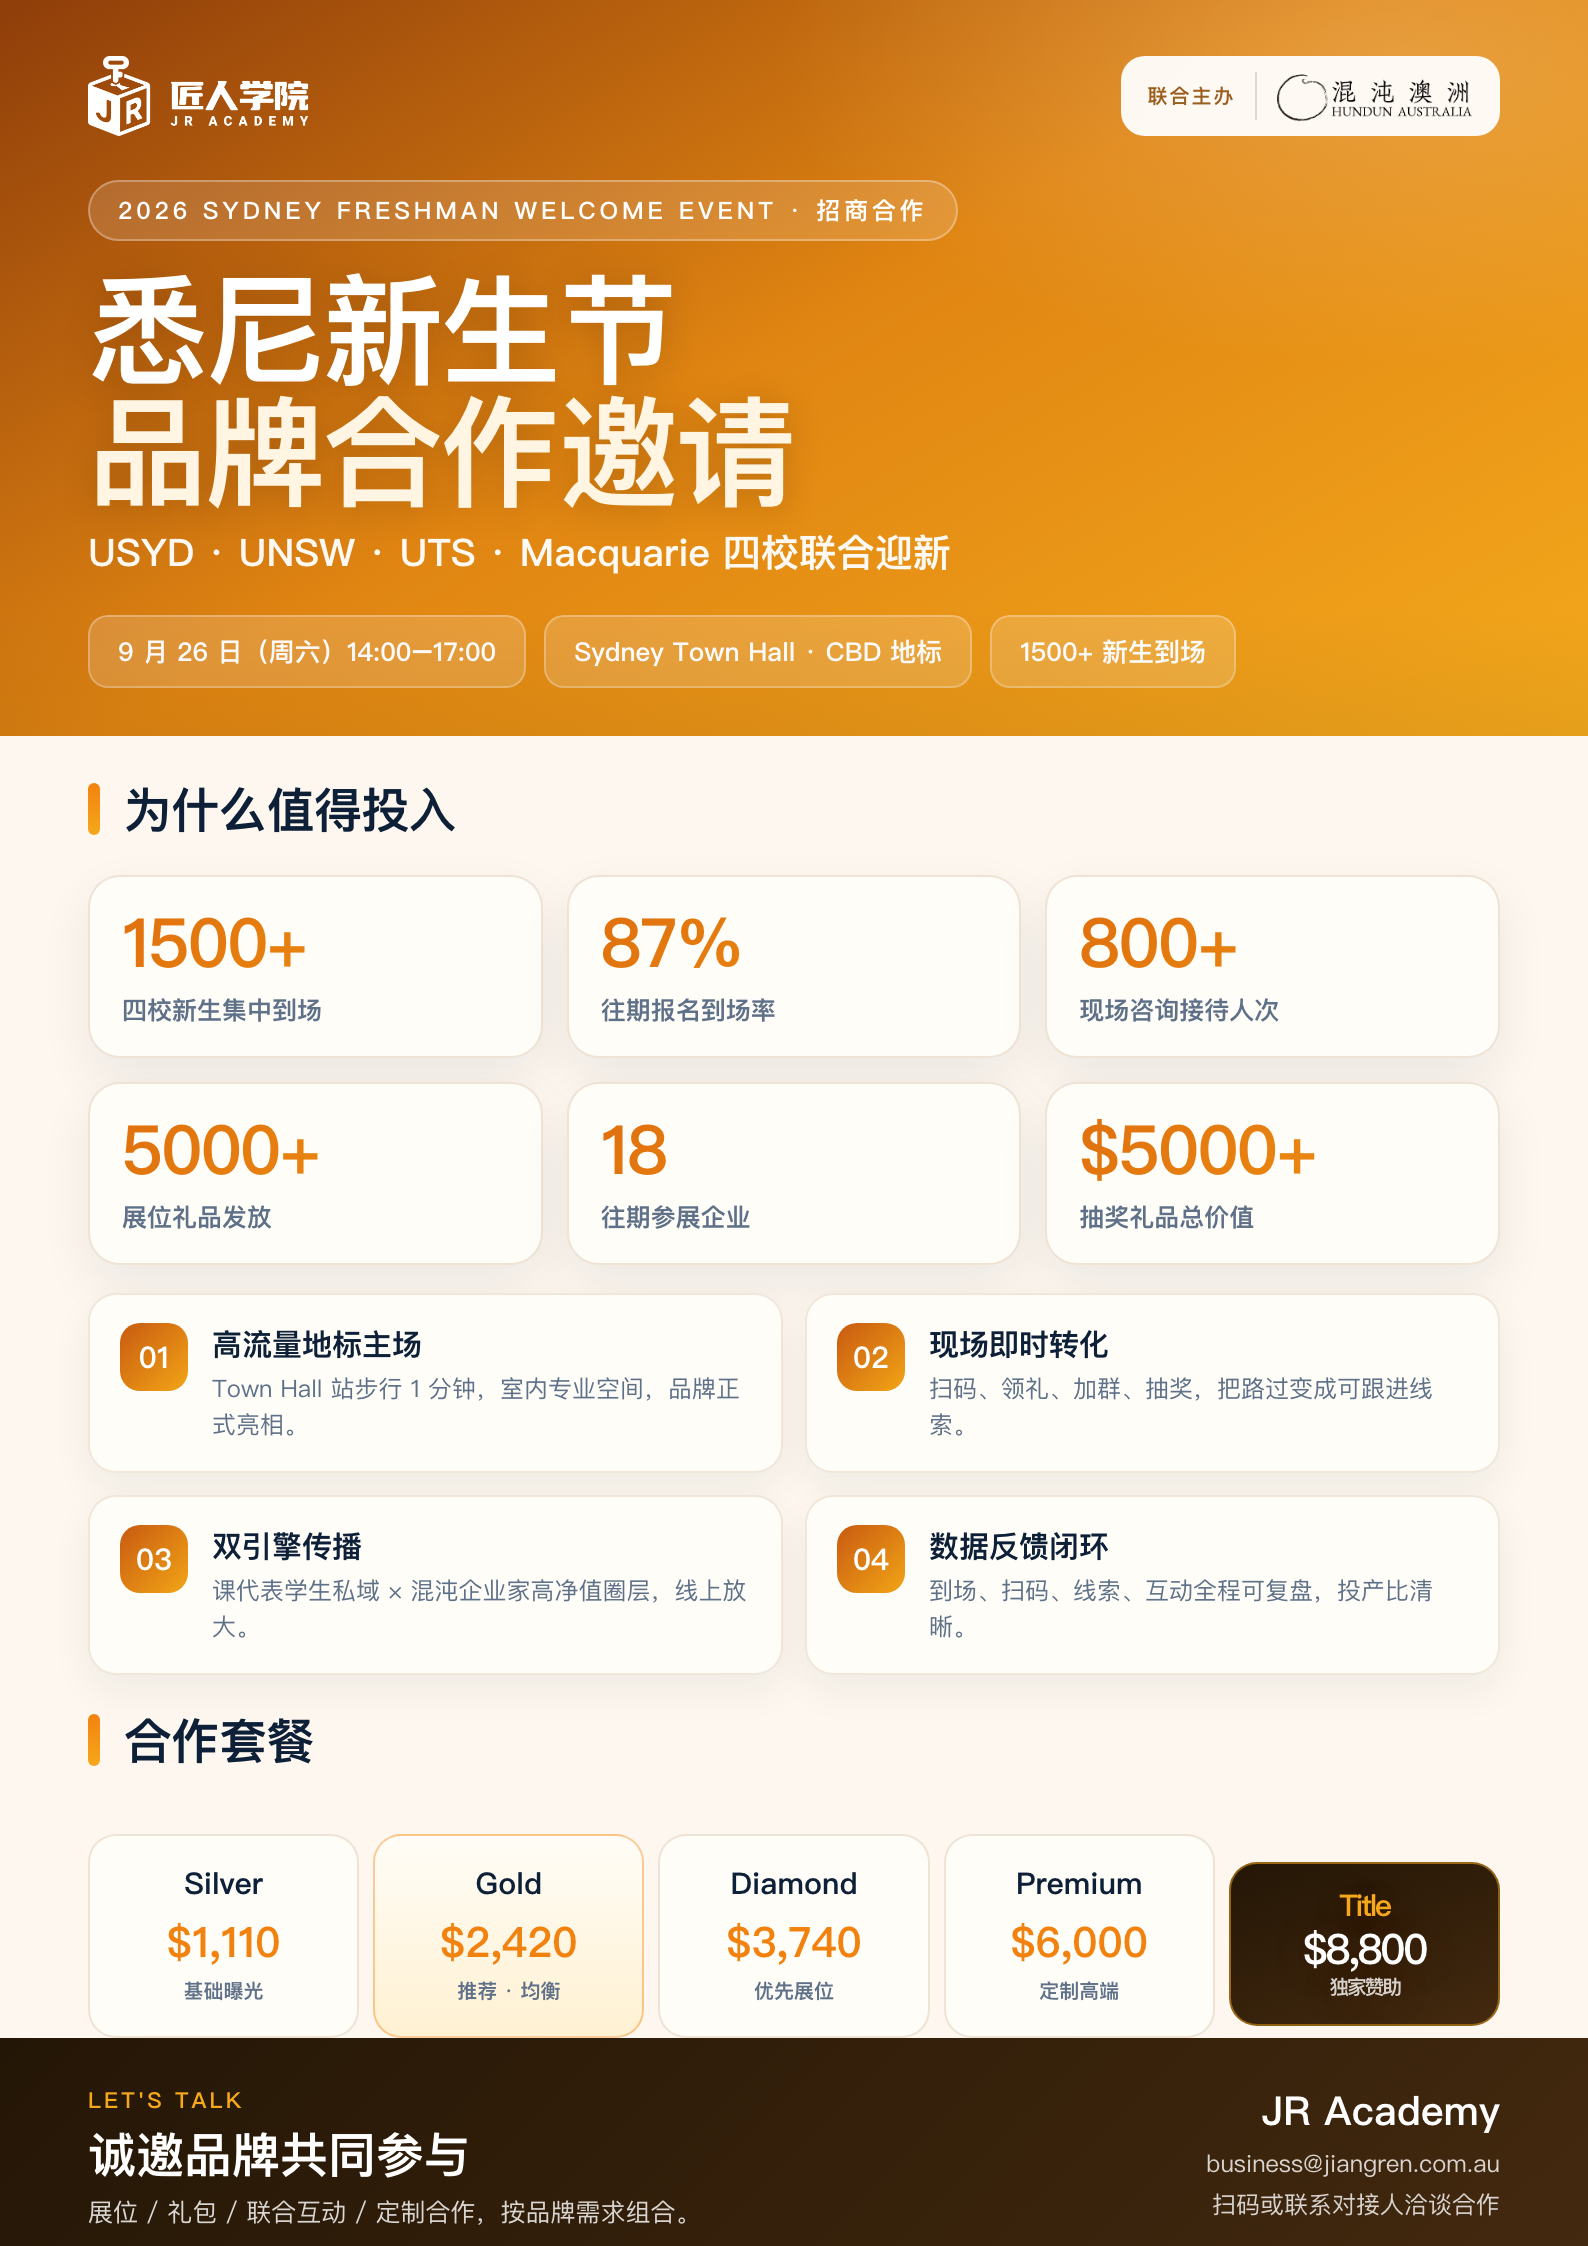
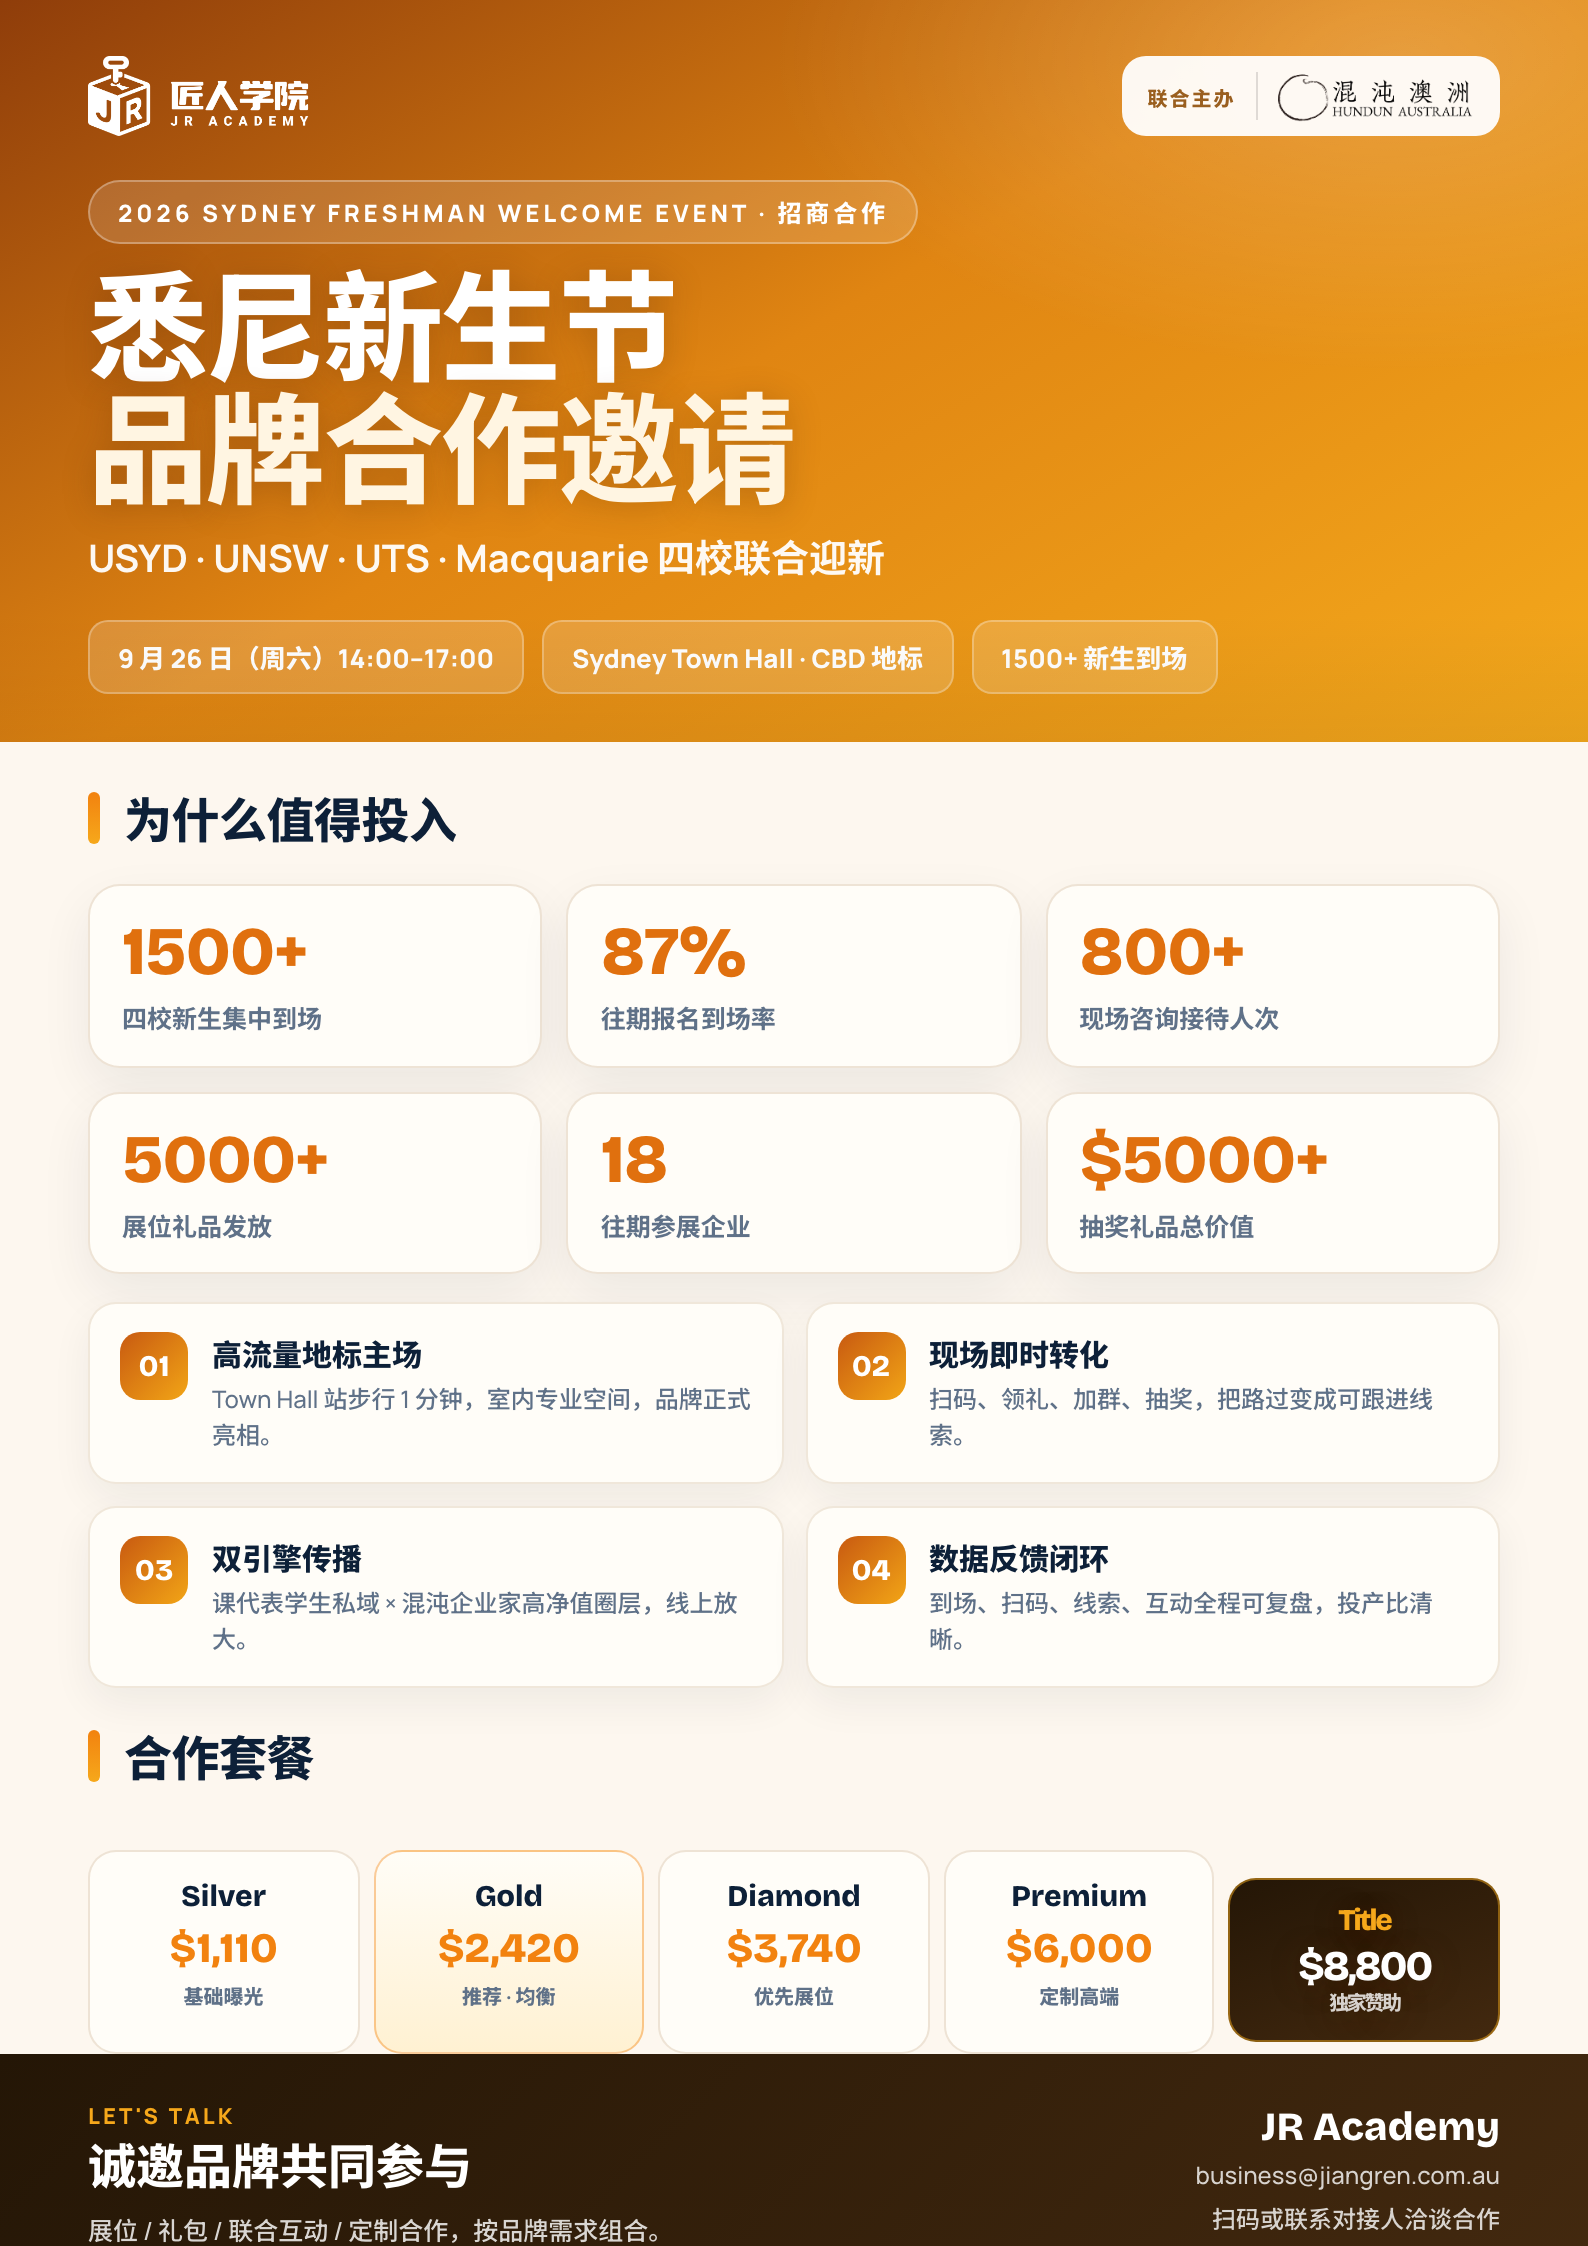
fix: 悉尼招商 deck/海报数字用 CSS 渐变文字在 Mac/iPhone PDF 渲染成空心橙块
.pill-card b / .stat-card strong / .value-card b / .mini-box strong /
.proof-card strong / poster .stat b 用 background-clip:text +
text-fill-color:transparent 做橙金渐变数字，Chromium 打印/PDF 导出管线
不能正确裁切渐变到字形，导致 Mac Preview 和 iPhone 打开 PDF 时数字位置
变成实心橙色矩形（01/02/03/04、1,500+、$5000+ 等全部中招）。
改为纯色 #e0700e，跨渲染器稳定。

重新导出 sydney-2026-s2.pdf / sydney-2026-s2-en.pdf（各 33 页）+
sydney-2026-s2-poster.pdf + poster.png（headless Chrome 打印/截图）。

Claude-Session: https://claude.ai/code/session_01SZh1xh2JWQBrmV9b1fntfv

diff --git a/sydney-2026-s2-en/styles.css b/sydney-2026-s2-en/styles.css
@@ -228,12 +228,12 @@ body.edit .slide.active [data-edit]:focus{outline:2px solid var(--orange)}
 .mini-stats{align-content:stretch}
 .stat-card{padding:22px 22px 18px}
 .stat-card .k{display:block;font-size:11px;letter-spacing:.12em;text-transform:uppercase;color:var(--muted);font-weight:800}
-.stat-card strong{display:block;margin-top:10px;font-family:var(--font-head);font-size:clamp(28px,3vw,44px);line-height:1;letter-spacing:-.02em;white-space:nowrap;background:linear-gradient(135deg,#e0700e,#ef9412);-webkit-background-clip:text;background-clip:text;-webkit-text-fill-color:transparent}
+.stat-card strong{display:block;margin-top:10px;font-family:var(--font-head);font-size:clamp(28px,3vw,44px);line-height:1;letter-spacing:-.02em;white-space:nowrap;color:#e0700e}
 .stat-card p{margin-top:10px;font-size:14px;line-height:1.5;color:var(--muted)}
 .pillars{margin-top:18px}
 .pill-card{padding:24px 20px 22px;position:relative}
 .pill-card::before{content:"";position:absolute;left:0;top:26px;width:4px;height:34px;border-radius:0 4px 4px 0;background:linear-gradient(180deg,var(--orange),var(--gold))}
-.pill-card b{display:block;font-family:var(--font-head);font-size:44px;line-height:.9;letter-spacing:-.02em;background:linear-gradient(135deg,#e0700e,#ef9412);-webkit-background-clip:text;background-clip:text;-webkit-text-fill-color:transparent}
+.pill-card b{display:block;font-family:var(--font-head);font-size:44px;line-height:.9;letter-spacing:-.02em;color:#e0700e}
 .pill-card h3{margin-top:12px;font-size:20px;color:var(--navy)}
 .pill-card p{margin-top:8px;font-size:14px;line-height:1.65;color:var(--muted)}
 
@@ -294,7 +294,7 @@ body.edit .slide.active [data-edit]:focus{outline:2px solid var(--orange)}
 .sponsor-grid{margin-bottom:18px}
 .value-card{padding:24px 22px;position:relative}
 .value-card::before{content:"";position:absolute;left:0;top:26px;width:4px;height:34px;border-radius:0 4px 4px 0;background:linear-gradient(180deg,var(--orange),var(--gold))}
-.value-card b{display:block;font-family:var(--font-head);font-size:44px;line-height:.9;letter-spacing:-.02em;background:linear-gradient(135deg,#e0700e,#ef9412);-webkit-background-clip:text;background-clip:text;-webkit-text-fill-color:transparent}
+.value-card b{display:block;font-family:var(--font-head);font-size:44px;line-height:.9;letter-spacing:-.02em;color:#e0700e}
 .value-card h3{margin-top:12px;font-size:20px;color:var(--navy)}
 .value-card p{margin-top:10px;font-size:14px;line-height:1.65;color:var(--muted)}
 .funnel-board{
@@ -321,7 +321,7 @@ body.edit .slide.active [data-edit]:focus{outline:2px solid var(--orange)}
 .engine-card p{margin-top:8px;font-size:14px;line-height:1.6;color:var(--muted)}
 .inner-stats{margin-top:18px}
 .mini-box{padding:16px 14px;border-radius:18px}
-.mini-box strong{display:block;font-family:var(--font-head);font-size:34px;line-height:.95;background:linear-gradient(135deg,#e0700e,#ef9412);-webkit-background-clip:text;background-clip:text;-webkit-text-fill-color:transparent}
+.mini-box strong{display:block;font-family:var(--font-head);font-size:34px;line-height:.95;color:#e0700e}
 .mini-box span{display:block;margin-top:6px;font-size:13px;line-height:1.45;color:var(--muted)}
 .afn-card{background:linear-gradient(180deg,rgba(255,255,255,.95),rgba(252,245,227,.95))}
 
@@ -380,7 +380,7 @@ table.kv tbody tr:nth-child(even) td{background:rgba(140,201,255,.08)}
 
 .proof-stats{margin-bottom:18px}
 .proof-card{padding:24px 16px;text-align:center}
-.proof-card strong{display:block;font-family:var(--font-head);font-size:clamp(30px,3.3vw,46px);line-height:1;letter-spacing:-.02em;background:linear-gradient(135deg,#e0700e,#ef9412);-webkit-background-clip:text;background-clip:text;-webkit-text-fill-color:transparent}
+.proof-card strong{display:block;font-family:var(--font-head);font-size:clamp(30px,3.3vw,46px);line-height:1;letter-spacing:-.02em;color:#e0700e}
 .proof-card span{display:block;margin-top:10px;font-size:13px;line-height:1.5;color:var(--muted)}
 .proof-panel{grid-template-columns:.96fr 1.04fr}
 .quote-stack{display:flex;flex-direction:column;justify-content:center;gap:14px}

diff --git a/sydney-2026-s2-v2/styles.css b/sydney-2026-s2-v2/styles.css
@@ -228,12 +228,12 @@ body.edit .slide.active [data-edit]:focus{outline:2px solid var(--orange)}
 .mini-stats{align-content:stretch}
 .stat-card{padding:22px 22px 18px}
 .stat-card .k{display:block;font-size:11px;letter-spacing:.12em;text-transform:uppercase;color:var(--muted);font-weight:800}
-.stat-card strong{display:block;margin-top:10px;font-family:var(--font-head);font-size:clamp(28px,3vw,44px);line-height:1;letter-spacing:-.02em;white-space:nowrap;background:linear-gradient(135deg,#e0700e,#ef9412);-webkit-background-clip:text;background-clip:text;-webkit-text-fill-color:transparent}
+.stat-card strong{display:block;margin-top:10px;font-family:var(--font-head);font-size:clamp(28px,3vw,44px);line-height:1;letter-spacing:-.02em;white-space:nowrap;color:#e0700e}
 .stat-card p{margin-top:10px;font-size:14px;line-height:1.5;color:var(--muted)}
 .pillars{margin-top:18px}
 .pill-card{padding:24px 20px 22px;position:relative}
 .pill-card::before{content:"";position:absolute;left:0;top:26px;width:4px;height:34px;border-radius:0 4px 4px 0;background:linear-gradient(180deg,var(--orange),var(--gold))}
-.pill-card b{display:block;font-family:var(--font-head);font-size:44px;line-height:.9;letter-spacing:-.02em;background:linear-gradient(135deg,#e0700e,#ef9412);-webkit-background-clip:text;background-clip:text;-webkit-text-fill-color:transparent}
+.pill-card b{display:block;font-family:var(--font-head);font-size:44px;line-height:.9;letter-spacing:-.02em;color:#e0700e}
 .pill-card h3{margin-top:12px;font-size:20px;color:var(--navy)}
 .pill-card p{margin-top:8px;font-size:14px;line-height:1.65;color:var(--muted)}
 
@@ -294,7 +294,7 @@ body.edit .slide.active [data-edit]:focus{outline:2px solid var(--orange)}
 .sponsor-grid{margin-bottom:18px}
 .value-card{padding:24px 22px;position:relative}
 .value-card::before{content:"";position:absolute;left:0;top:26px;width:4px;height:34px;border-radius:0 4px 4px 0;background:linear-gradient(180deg,var(--orange),var(--gold))}
-.value-card b{display:block;font-family:var(--font-head);font-size:44px;line-height:.9;letter-spacing:-.02em;background:linear-gradient(135deg,#e0700e,#ef9412);-webkit-background-clip:text;background-clip:text;-webkit-text-fill-color:transparent}
+.value-card b{display:block;font-family:var(--font-head);font-size:44px;line-height:.9;letter-spacing:-.02em;color:#e0700e}
 .value-card h3{margin-top:12px;font-size:20px;color:var(--navy)}
 .value-card p{margin-top:10px;font-size:14px;line-height:1.65;color:var(--muted)}
 .funnel-board{
@@ -321,7 +321,7 @@ body.edit .slide.active [data-edit]:focus{outline:2px solid var(--orange)}
 .engine-card p{margin-top:8px;font-size:14px;line-height:1.6;color:var(--muted)}
 .inner-stats{margin-top:18px}
 .mini-box{padding:16px 14px;border-radius:18px}
-.mini-box strong{display:block;font-family:var(--font-head);font-size:34px;line-height:.95;background:linear-gradient(135deg,#e0700e,#ef9412);-webkit-background-clip:text;background-clip:text;-webkit-text-fill-color:transparent}
+.mini-box strong{display:block;font-family:var(--font-head);font-size:34px;line-height:.95;color:#e0700e}
 .mini-box span{display:block;margin-top:6px;font-size:13px;line-height:1.45;color:var(--muted)}
 .afn-card{background:linear-gradient(180deg,rgba(255,255,255,.95),rgba(252,245,227,.95))}
 
@@ -380,7 +380,7 @@ table.kv tbody tr:nth-child(even) td{background:rgba(140,201,255,.08)}
 
 .proof-stats{margin-bottom:18px}
 .proof-card{padding:24px 16px;text-align:center}
-.proof-card strong{display:block;font-family:var(--font-head);font-size:clamp(30px,3.3vw,46px);line-height:1;letter-spacing:-.02em;background:linear-gradient(135deg,#e0700e,#ef9412);-webkit-background-clip:text;background-clip:text;-webkit-text-fill-color:transparent}
+.proof-card strong{display:block;font-family:var(--font-head);font-size:clamp(30px,3.3vw,46px);line-height:1;letter-spacing:-.02em;color:#e0700e}
 .proof-card span{display:block;margin-top:10px;font-size:13px;line-height:1.5;color:var(--muted)}
 .proof-panel{grid-template-columns:.96fr 1.04fr}
 .quote-stack{display:flex;flex-direction:column;justify-content:center;gap:14px}

diff --git a/sydney-2026-s2-v2/poster.html b/sydney-2026-s2-v2/poster.html
@@ -61,7 +61,7 @@
   .stat{background:var(--paper);border:1px solid rgba(150,96,32,.16);border-radius:16px;padding:16px 16px 14px;
     box-shadow:0 10px 26px rgba(13,32,56,.07)}
   .stat b{display:block;font-family:var(--font-head);font-weight:800;font-size:34px;line-height:1;letter-spacing:-.02em;
-    background:linear-gradient(135deg,var(--orange-deep),#ef9412);-webkit-background-clip:text;background-clip:text;-webkit-text-fill-color:transparent}
+    color:var(--orange-deep)}
   .stat p{margin-top:8px;font-size:12.5px;font-weight:700;color:var(--muted);line-height:1.4}
 
   /* ===== 核心卖点 ===== */
